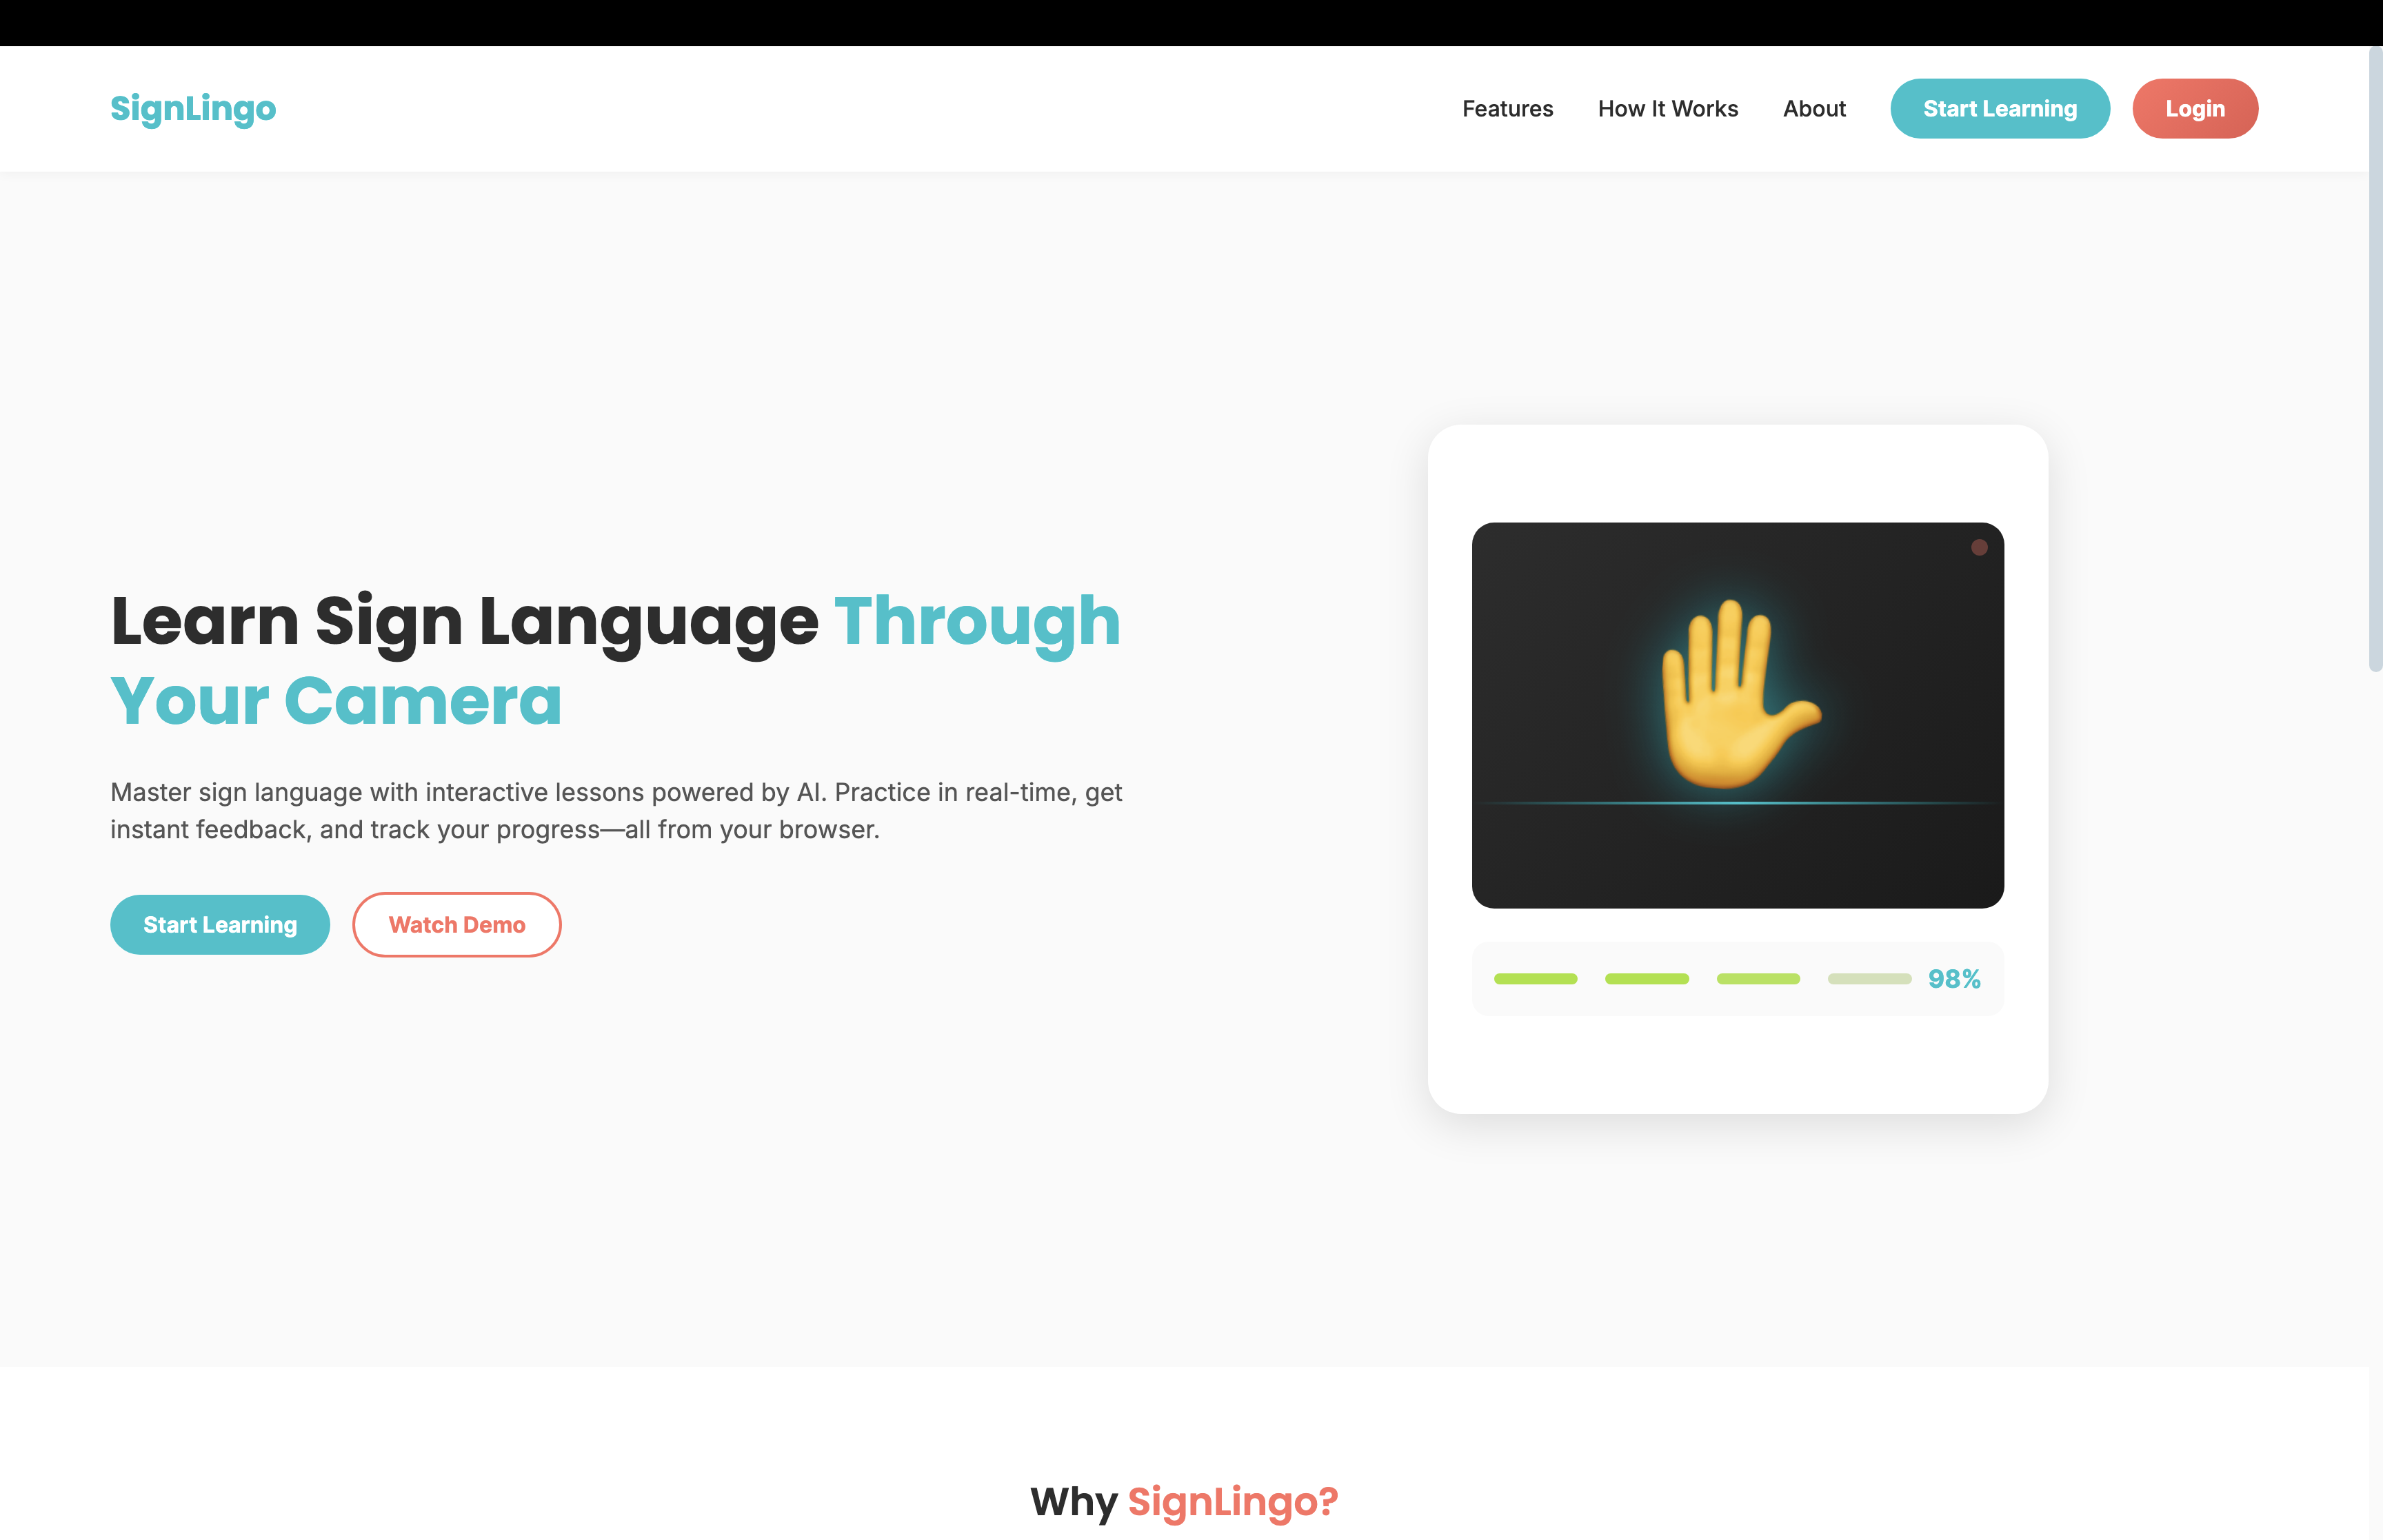
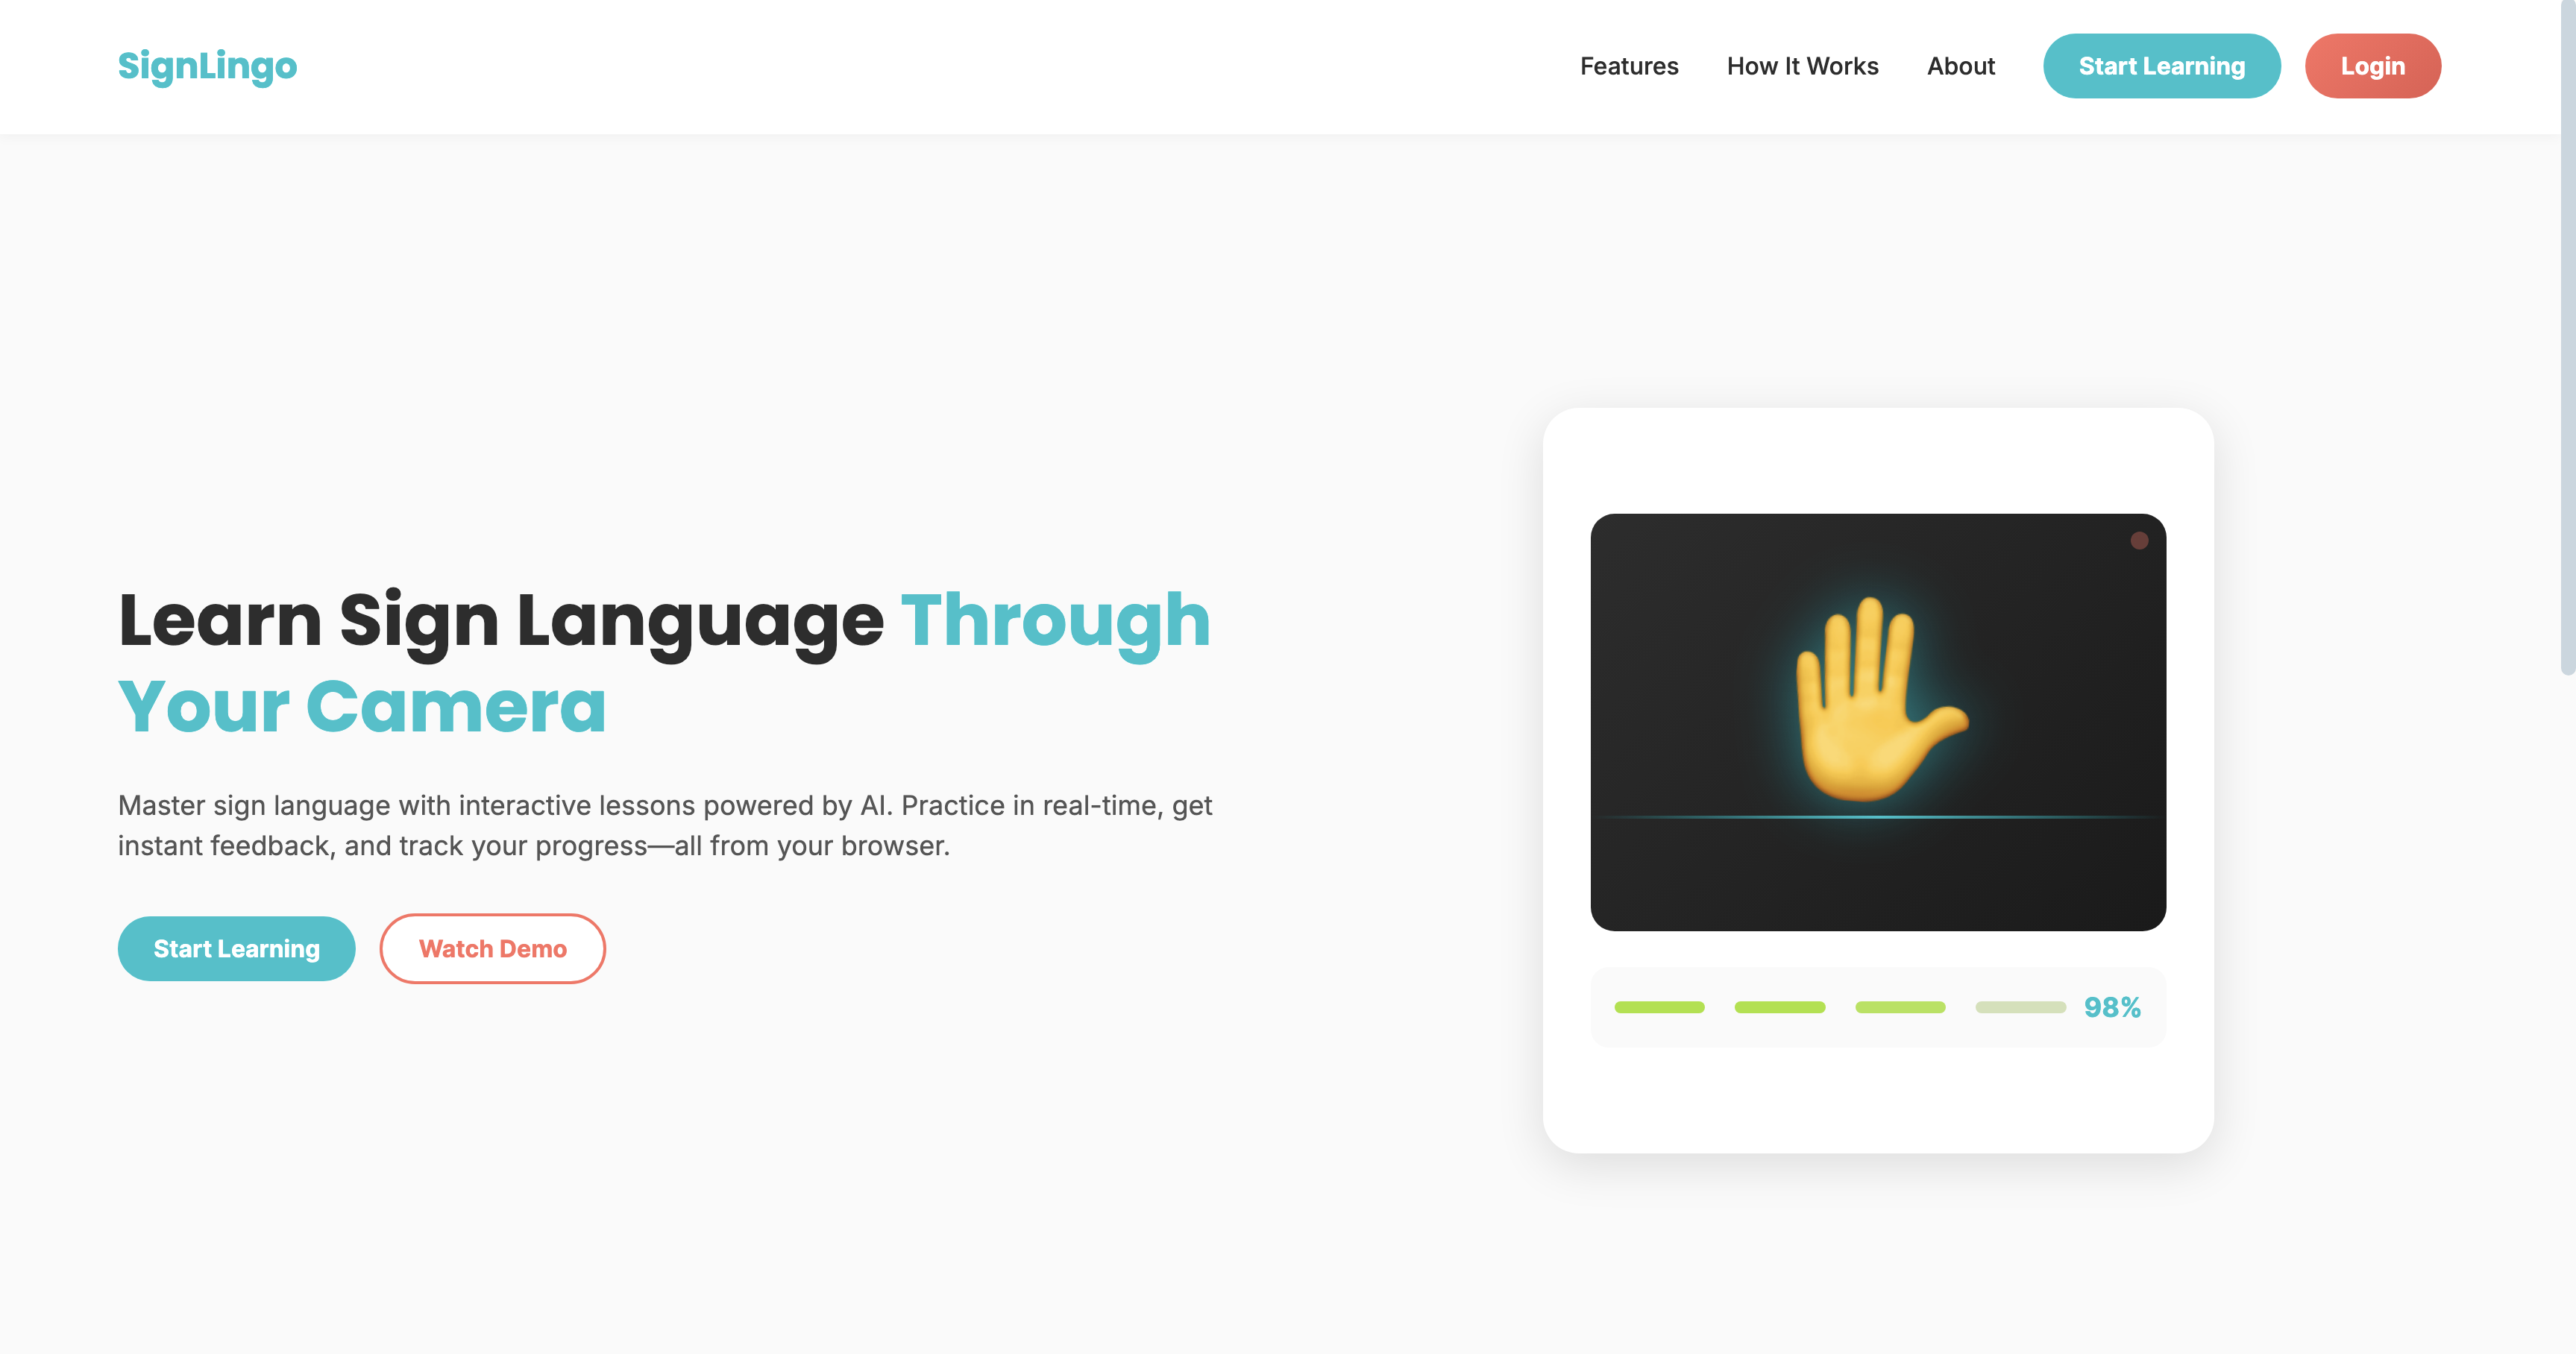
added animations for library and fix signlingo image

diff --git a/projects.html b/projects.html
@@ -8,6 +8,7 @@
     <link href="https://cdn.jsdelivr.net/npm/bootstrap@5.3.0-alpha1/dist/css/bootstrap.min.css" rel="stylesheet">
     <link rel="stylesheet" href="https://cdnjs.cloudflare.com/ajax/libs/font-awesome/6.0.0/css/all.min.css">
     <link rel="stylesheet" href="style.css">
+    <link href="https://unpkg.com/aos@2.3.1/dist/aos.css" rel="stylesheet">
 </head>
 
 <body>
@@ -23,21 +24,21 @@
 
     <section class="projects-grid-section">
         <div class="container">
-            <div class="text-center max-w-2xl mx-auto mb-5">
+            <div class="text-center max-w-2xl mx-auto mb-5" data-aos="fade-up">
                 <span class="badge-pill">The Archives</span>
                 <h1 class="display-4 fw-bold">Project Library</h1>
                 <p class="text-secondary lead">A collection of my experiments, research, and applications.</p>
             </div>
 
             <!-- 1. Featured Flagships -->
-            <div class="project-category-header container px-4 mb-4">
+            <div class="project-category-header container px-4 mb-4" data-aos="fade-up">
                 <h2><i class="fas fa-star text-warning"></i> Featured Work</h2>
             </div>
 
             <div class="projects-grid mt-4">
 
                 <!-- Featured: SignLingo 1-Column -->
-                <div class="grid-card"
+                <div class="grid-card" data-aos="fade-up"
                     style="border-color: rgba(74,222,128,0.3); box-shadow: 0 10px 40px -10px rgba(74,222,128,0.15);">
                     <div class="grid-image">
                         <img src="static/Signlingo_thumbnail.png" alt="Signlingo">
@@ -61,7 +62,7 @@
                 </div>
 
                 <!-- Featured: OIDC Provider 1-Column -->
-                <div class="grid-card"
+                <div class="grid-card" data-aos="fade-up"
                     style="border-color: rgba(99,102,241,0.3); box-shadow: 0 10px 40px -10px rgba(99,102,241,0.15);">
                     <div class="grid-image">
                         <img src="static/OpenID_Connect.png" alt="OIDC Provider"
@@ -89,13 +90,13 @@
             </div>
 
             <!-- 2. Machine Learning & AI -->
-            <div class="project-category-header container px-4 mt-5">
+            <div class="project-category-header container px-4 mt-5" data-aos="fade-up">
                 <h2><i class="fas fa-brain text-info"></i> Machine Learning & AI</h2>
             </div>
 
             <div class="projects-grid mt-4">
 
-                <div class="grid-card wide">
+                <div class="grid-card wide" data-aos="fade-up">
                     <div class="grid-image">
                         <img src="static/F1-predictor-image-main.jpg"
                             onerror="this.src='static/Signlingo_thumbnail.png'" alt="F1 Undercut">
@@ -116,7 +117,7 @@
                     </div>
                 </div>
 
-                <div class="grid-card">
+                <div class="grid-card" data-aos="fade-up">
                     <div class="grid-image">
                         <img style="object-position: top;" src="static/cv_improver_thumbnail.png"
                             onerror="this.src='static/Signlingo_thumbnail.png'" alt="CV Improver">
@@ -137,7 +138,7 @@
                     </div>
                 </div>
 
-                <div class="grid-card">
+                <div class="grid-card" data-aos="fade-up">
                     <div class="grid-image">
                         <img src="static/discord-image-main.jpeg" onerror="this.src='static/gamified_dashboard.png'"
                             alt="Discord Bot">
@@ -159,7 +160,7 @@
                     </div>
                 </div>
 
-                <div class="grid-card wide">
+                <div class="grid-card wide" data-aos="fade-up">
                     <div class="grid-image">
                         <img style="object-position: top;" src="static/research_thumbnail.png"
                             onerror="this.src='static/Signlingo_thumbnail.png'" alt="Research">
@@ -184,13 +185,13 @@
             </div>
 
             <!-- 3. Software Engineering -->
-            <div class="project-category-header container px-4 mt-5">
+            <div class="project-category-header container px-4 mt-5" data-aos="fade-up">
                 <h2><i class="fas fa-server text-success"></i> Software Engineering</h2>
             </div>
 
             <div class="projects-grid mt-4">
 
-                <div class="grid-card">
+                <div class="grid-card" data-aos="fade-up">
                     <div class="grid-image">
                         <img src="static/flux_budget_app.jpg" onerror="this.src='static/gamified_dashboard.png'"
                             alt="Flux">
@@ -211,7 +212,7 @@
                     </div>
                 </div>
 
-                <div class="grid-card wide">
+                <div class="grid-card wide" data-aos="fade-up">
                     <div class="grid-image">
                         <img src="static/Nusacrop_thumbnail.png" alt="NusaCrop"
                             onerror="this.src='static/Signlingo_thumbnail.png'">
@@ -240,6 +241,8 @@
         <p class="mb-0 text-secondary">© 2025 Anang Ayman</p>
     </footer>
 
+    <script src="https://unpkg.com/aos@2.3.1/dist/aos.js"></script>
+    <script>AOS.init({ duration: 800, once: true });</script>
 </body>
 
 </html>